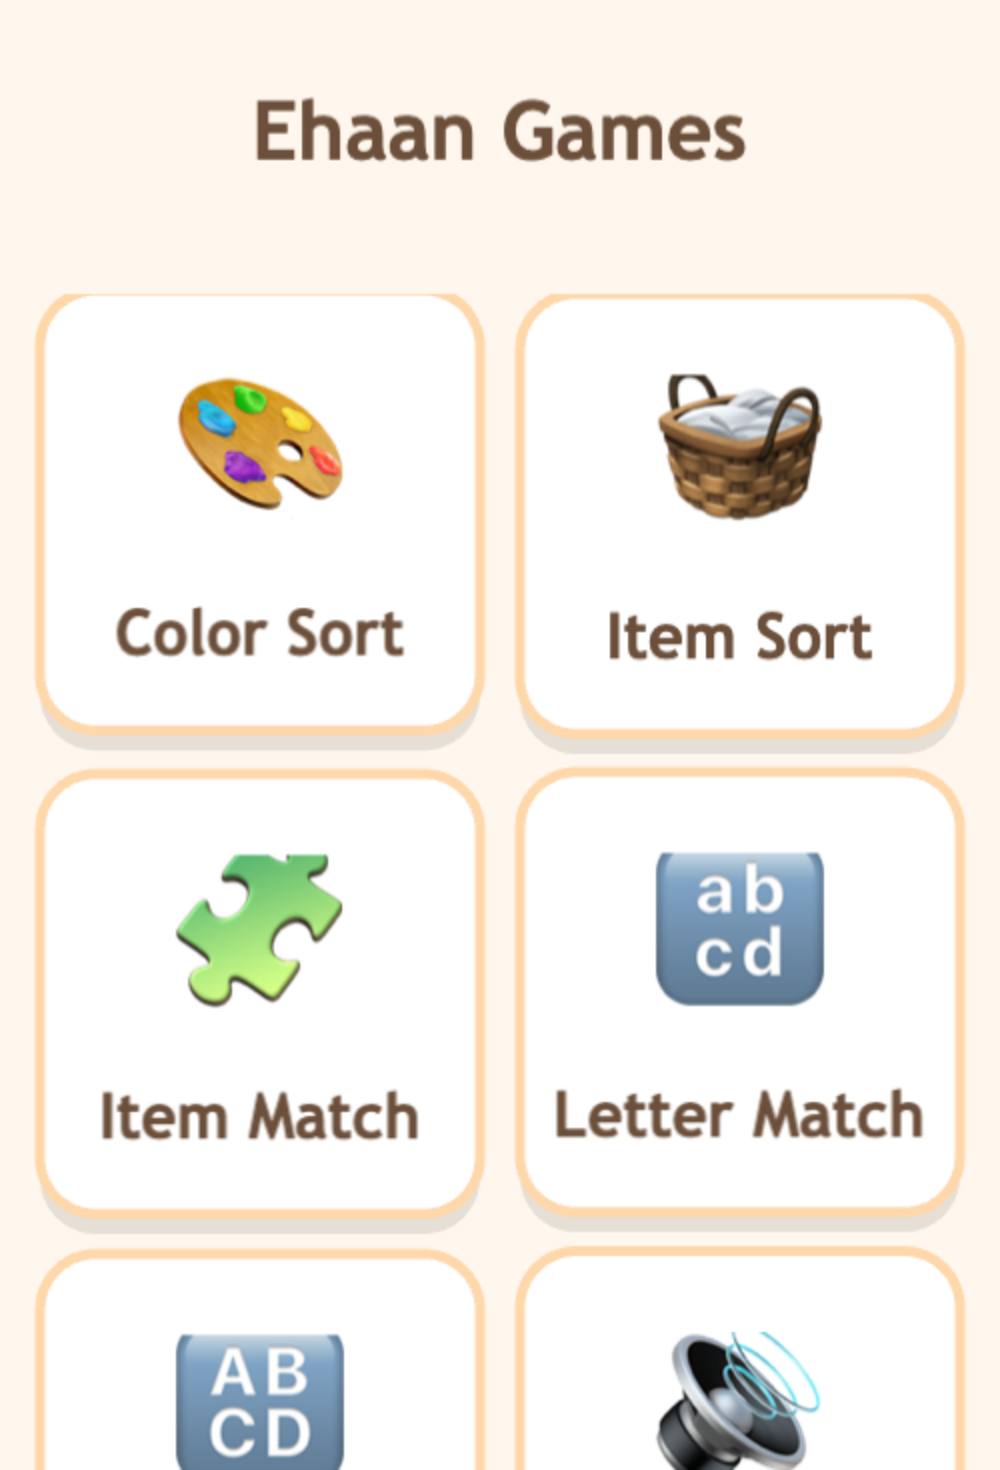
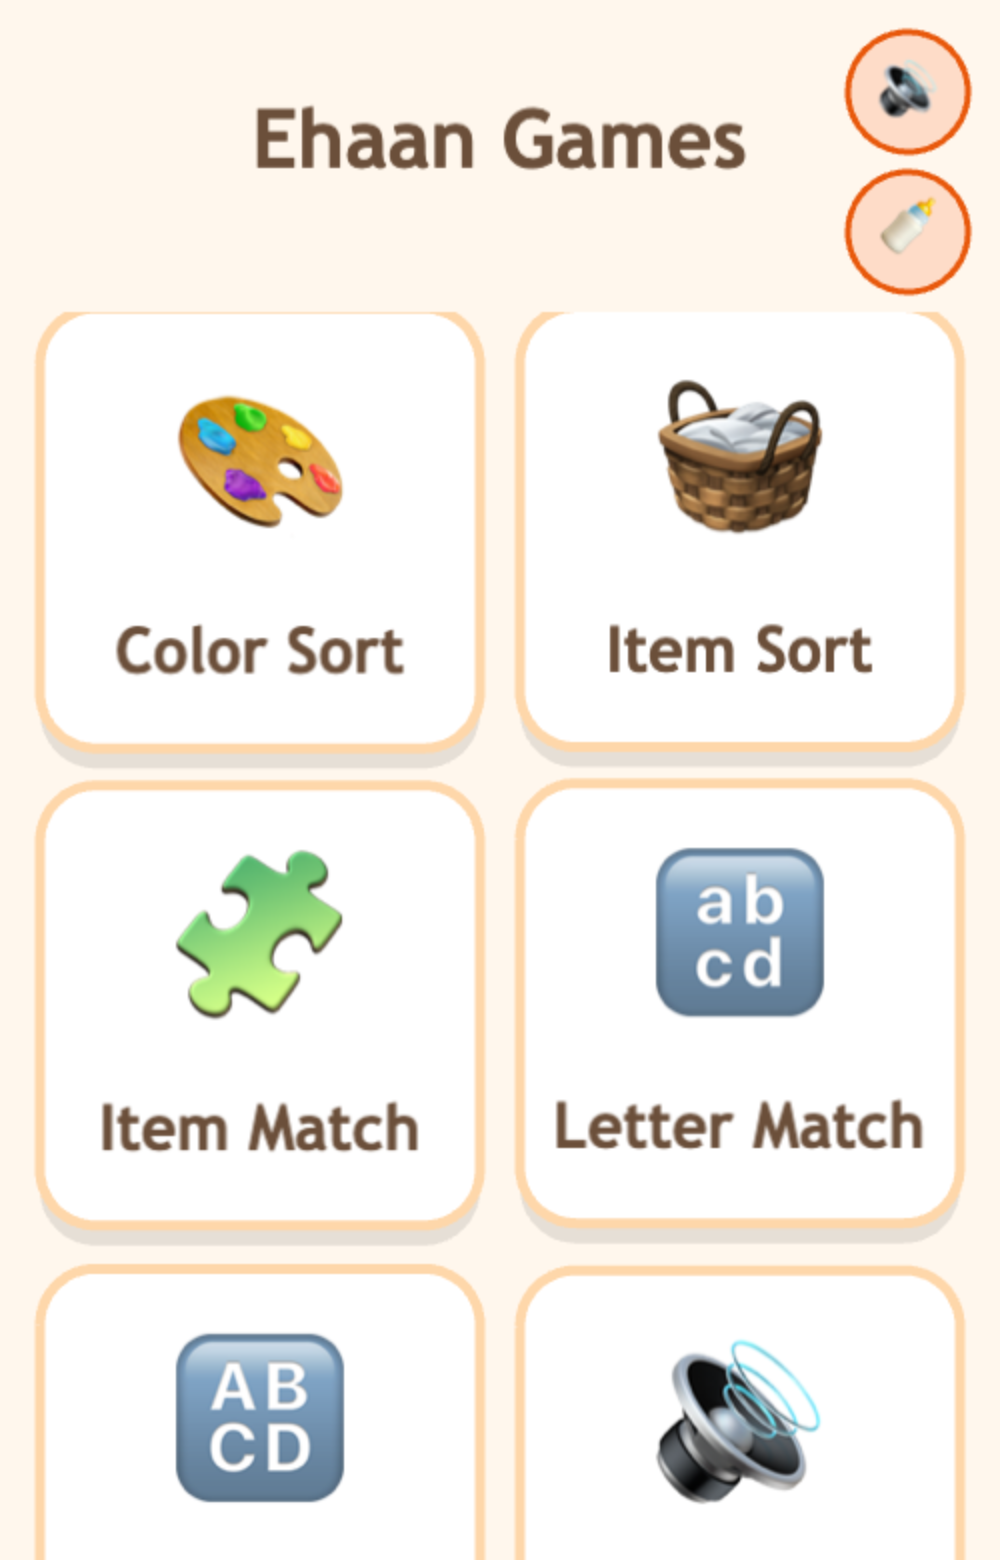
docs: refresh README + screenshots for the full 21-game catalog
- All 21 games in the table (sorting, matching, finding, counting, patterns, first letter, jigsaw,
  colour-it tracing, bubble pop, catch it, memory)
- Correct the audio note (AI narrator + AI animal SFX, not macOS 'say' placeholders)
- Add 'Made for little ones' (younger mode, mute, drag-forgiveness, idle hint, no fail states)
- Note Arcade physics + the signed APK/AAB CI release
- Regenerate 9 current screenshots; drop stale ones

diff --git a/README.md b/README.md
@@ -1,50 +1,76 @@
-# Ehaan Games 🎨 🧺 🔤 🔢
+# Ehaan Games 🎨 🧺 🔤 🔢 🫧
 
-Gentle, **offline**, ad-free learning games for **ages 2–5** — colour & item sorting, matching, and letter/number games. **No ads, no in-app purchases, no data collection.**
+Gentle, **offline**, ad-free learning games for **ages 2–5** — sorting, matching, finding, counting, tracing, and a little physics. **21 little games** in one app, with **no ads, no in-app purchases, and no data collection.**
 
 ### ▶ Live demo: **https://amims71.github.io/ehaan-games/**
 
-Tap a game and play. Works on phone, tablet, or desktop (best added to your home screen).
+Tap a game and play. Works on phone, tablet, or desktop — best added to your home screen.
 
-> **Prototype note:** the art is emoji + simple vector graphics and the voices are macOS `say` placeholders. Final illustrated art and a warm narrated voice are planned (these slot into the same code). The mechanics, design, responsiveness, and accessibility are real.
+> **Prototype note:** the art is emoji + simple vector graphics. The voices are **AI-generated** (an ElevenLabs narrator) and the animal sounds are **AI sound effects** — all bundled, so the app stays fully offline. Final illustrated art is planned and slots into the same code; the mechanics, audio, design, responsiveness, and accessibility are real.
 
 ## Screenshots
 
 <p align="center">
-  <img src="screenshots/hub.png" width="220" alt="Game hub" />
-  <img src="screenshots/color-sort.png" width="220" alt="Colour sort" />
-  <img src="screenshots/item-sort.png" width="220" alt="Item sort" />
+  <img src="screenshots/hub.png" width="210" alt="Game hub" />
+  <img src="screenshots/color-sort.png" width="210" alt="Colour Sort" />
+  <img src="screenshots/shape-sort.png" width="210" alt="Shape Sort" />
 </p>
 <p align="center">
-  <img src="screenshots/item-match.png" width="220" alt="Item match" />
-  <img src="screenshots/letter-match.png" width="220" alt="Letter match" />
-  <img src="screenshots/find-it.png" width="220" alt="Find it" />
+  <img src="screenshots/counting.png" width="210" alt="Counting" />
+  <img src="screenshots/first-letter.png" width="210" alt="First Letter" />
+  <img src="screenshots/jigsaw.png" width="210" alt="Jigsaw" />
 </p>
 <p align="center">
-  <img src="screenshots/listen-find.png" width="220" alt="Listen and find" />
+  <img src="screenshots/colour-it.png" width="210" alt="Colour It" />
+  <img src="screenshots/bubble-pop.png" width="210" alt="Bubble Pop" />
+  <img src="screenshots/memory.png" width="210" alt="Find the Pair" />
 </p>
 
-## The games
+## The 21 games
 
 | Game | What you do |
 |---|---|
 | **Colour Sort** | Drag each item into the matching-colour basket |
 | **Item Sort** | Sort items into Fruit / Animal / Vehicle baskets |
-| **Item Match** | Tap the matching pairs |
+| **Item Match** | Tap *or drag* the matching pairs |
 | **Letter Match** | Match letters & numbers |
 | **Find It** | See a letter/number, tap the one that matches |
 | **Listen & Find** | *Hear* a letter/number, tap the one that matches |
+| **Shape Sort** | Drag each shape onto its matching outline |
+| **Size Sort** | Sort the same item into **Big** and **Small** |
+| **Shape Match** | Tap/drag the matching shape pairs |
+| **Big & Little** | Match uppercase & lowercase letters |
+| **Find Colour** | *Hear* a colour, tap it |
+| **Find Shape** | Find the named shape |
+| **Animal Sounds** | *Hear a real animal sound*, tap the animal |
+| **Counting** | Count the objects, tap the number |
+| **Patterns** | Tap what comes next in the pattern |
+| **First Letter** | Tap the letter a picture starts with |
+| **Jigsaw** | Drag the pieces to finish the picture |
+| **Colour It** | Trace/colour in a letter, number, or shape |
+| **Bubble Pop** | Pop the floating colour bubbles *(physics)* |
+| **Catch It** | Catch the falling items in your basket *(physics)* |
+| **Find the Pair** | Memory — flip two cards to find matches |
 
 Every round randomises its content, **says the name on success** ("Apple!", "Blue!", "B!"), gives a soft nudge on a wrong tap, and celebrates with a little fanfare.
 
+## Made for little ones
+
+- 🍼 **Younger mode** — fewer items per round and a calmer pace, for the very youngest (toggle on the hub)
+- 🔊 **Sound on/off** — one-tap mute (toggle on the hub)
+- 🎯 **Drag-forgiveness** — a drop that lands *near* the right basket still counts
+- 💡 **Idle hint** — if a child is stuck, the prompt is re-said and the right answer gently pulses
+- 🗣️ A warm **narrator voice** says names + an encouraging "Great job!", and **real AI animal sounds** play in Animal Sounds
+- **No scores, no timers, no fail states** — just appreciation
+
 ## Built with
 
-- **[Phaser 4](https://phaser.io)** (TypeScript) — 2D game engine
-- **[Vite](https://vitejs.dev)** — bundler & dev server
+- **[Phaser 4](https://phaser.io)** (TypeScript) — 2D engine, incl. **Arcade physics** (Bubble Pop & Catch It)
+- **[Vite](https://vitejs.dev)** — bundler & dev server; **PWA** (installable, offline)
 - **[Capacitor 8](https://capacitorjs.com)** — packages the same codebase into native iOS + Android apps
 - Fully **offline**, **zero networking / zero data collection** — kid-safe by design (Apple Kids Category / Google Play Families friendly)
 
-The games share a small reusable engine (a hub, a sorting base, a matching base, a "find" base, audio feedback, and a responsive grid), so new games are mostly content + a thin scene.
+The games share a small reusable engine (a hub, sorting / matching / find bases, audio feedback, persisted settings, and a responsive grid), so new games are mostly content + a thin scene.
 
 ## Run locally
 
@@ -59,10 +85,10 @@ pnpm test     # unit tests (Vitest)
 
 ```bash
 pnpm build && npx cap sync
-npx cap run android     # or: npx cap run ios  (requires Xcode)
+npx cap run android     # or: npx cap run ios  (requires Xcode + an Apple Developer account)
 ```
 
-> Requires **JDK 21** for the Android build (Capacitor 8).
+> Requires **JDK 21** for the Android build (Capacitor 8). A signed **APK + AAB** is built by CI on every `vX.Y.Z` tag — see [Releases](https://github.com/amims71/ehaan-games/releases).
 
 ## License
 